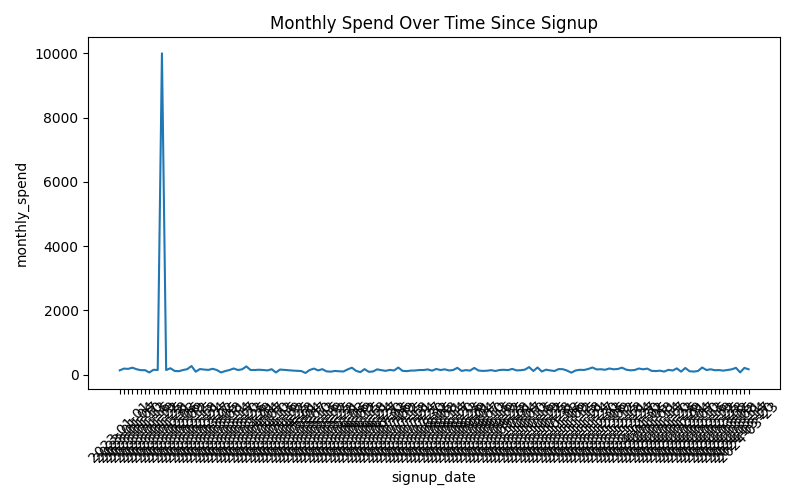
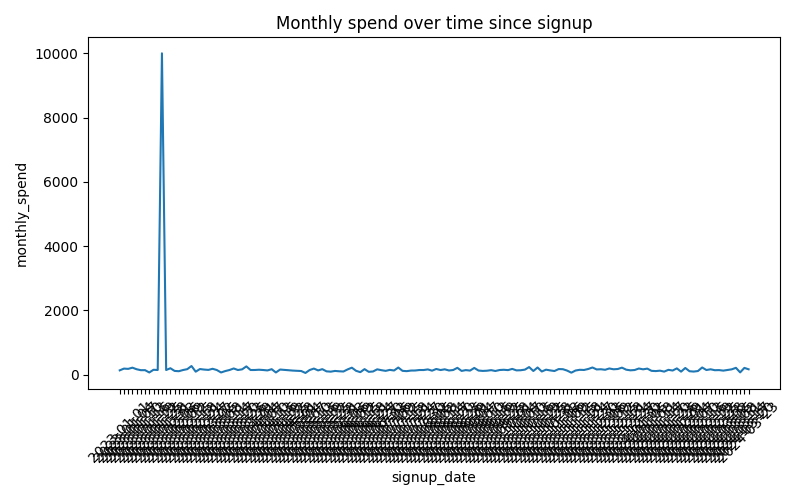
Add Dockerfile for backend; fix directory creation order for containerized deployment

Changed region(s): [[0.3125, 0.03, 0.75, 0.06]]

diff --git a/main.py b/main.py
@@ -20,8 +20,10 @@ app.add_middleware(
     allow_methods=["*"],
     allow_headers=["*"],
 )
+CHARTS_DIR = "generated_charts"
+os.makedirs(CHARTS_DIR, exist_ok=True)
 
-app.mount("/charts", StaticFiles(directory="generated_charts"), name="charts")
+app.mount("/charts", StaticFiles(directory=CHARTS_DIR), name="charts")
 
 UPLOAD_DIR = "uploads"
 os.makedirs(UPLOAD_DIR, exist_ok=True)
